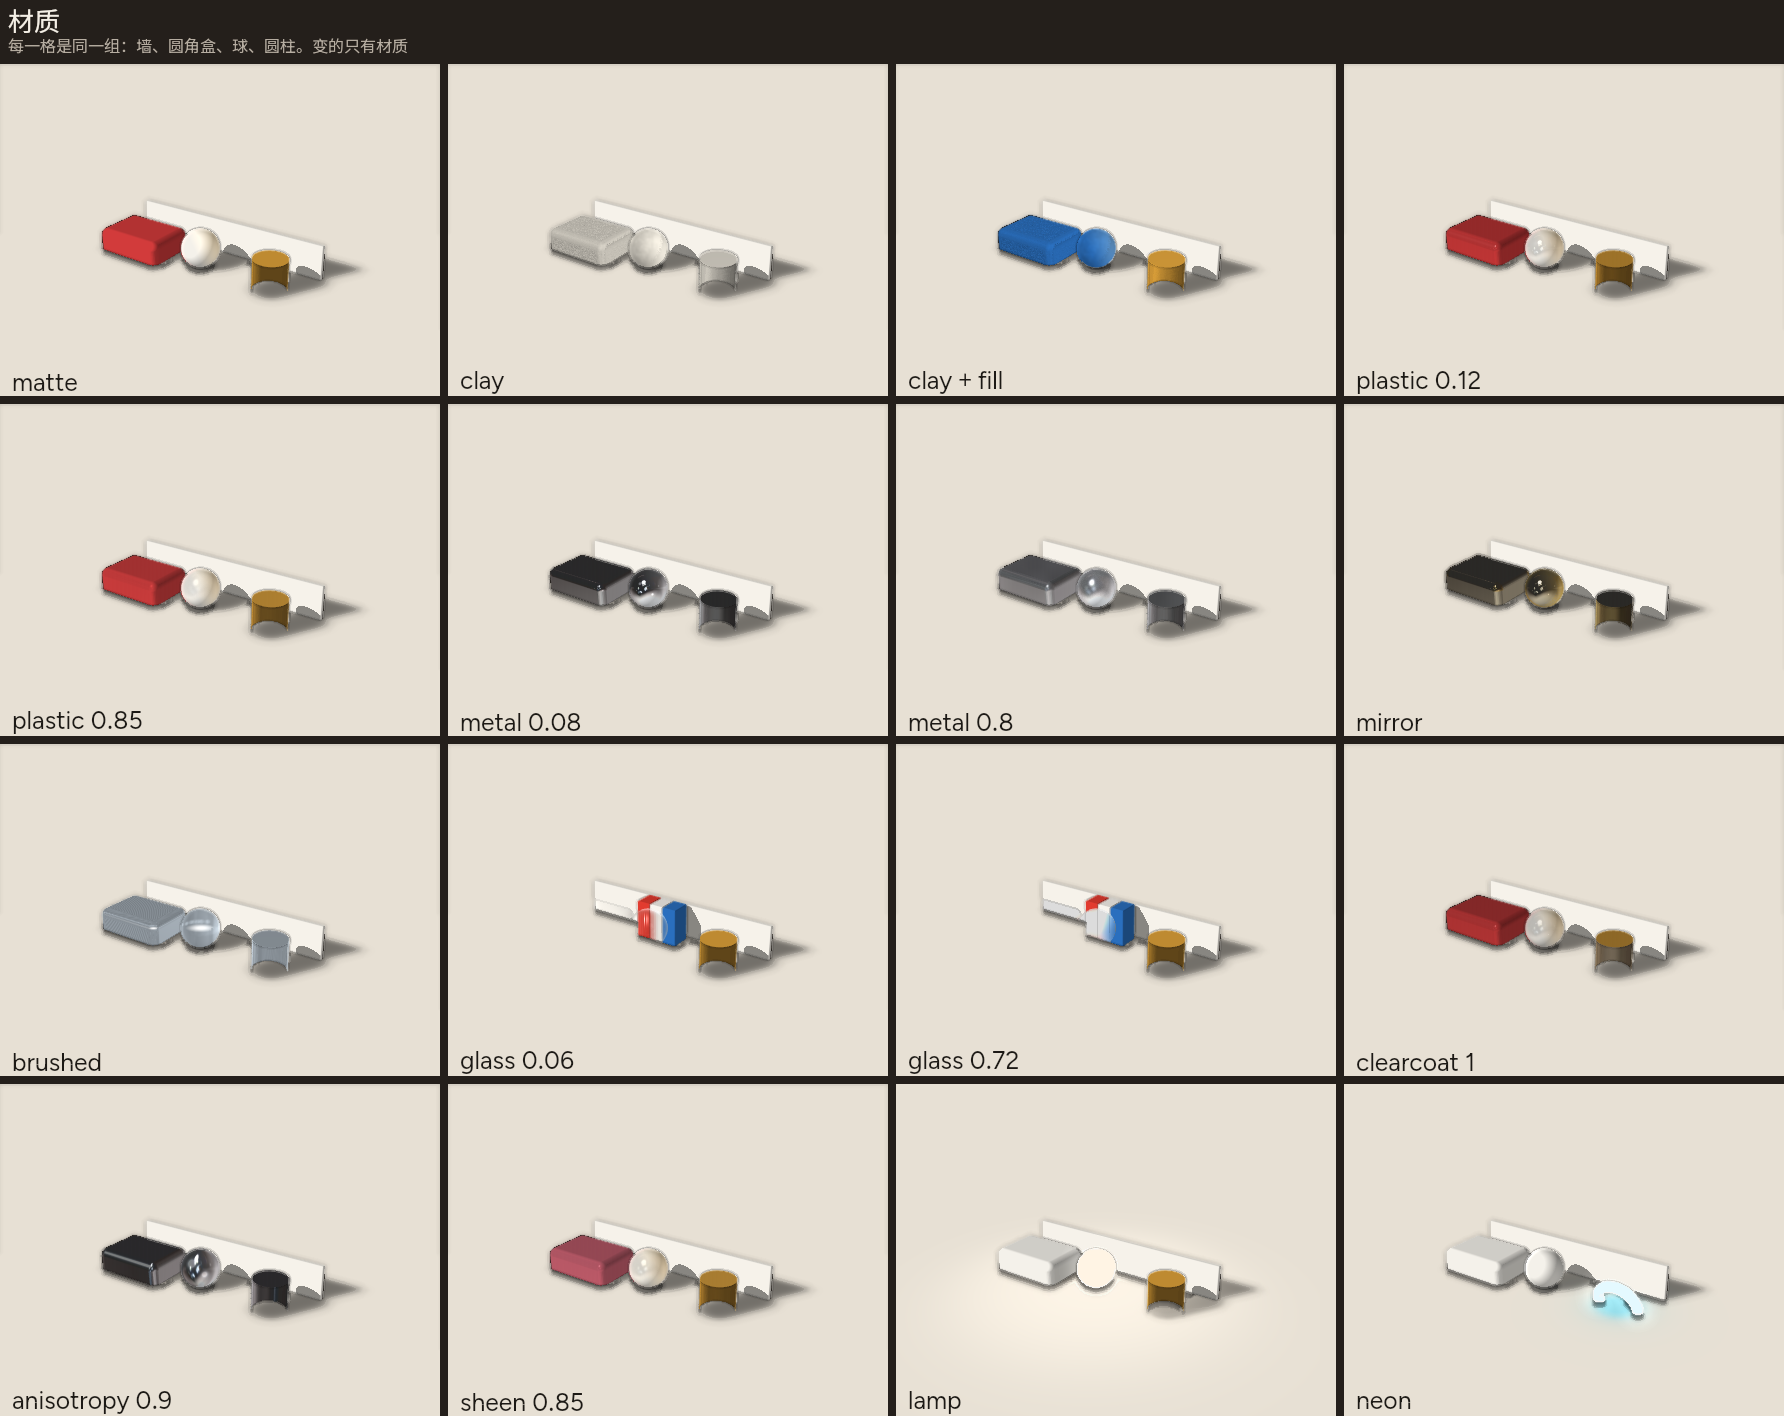
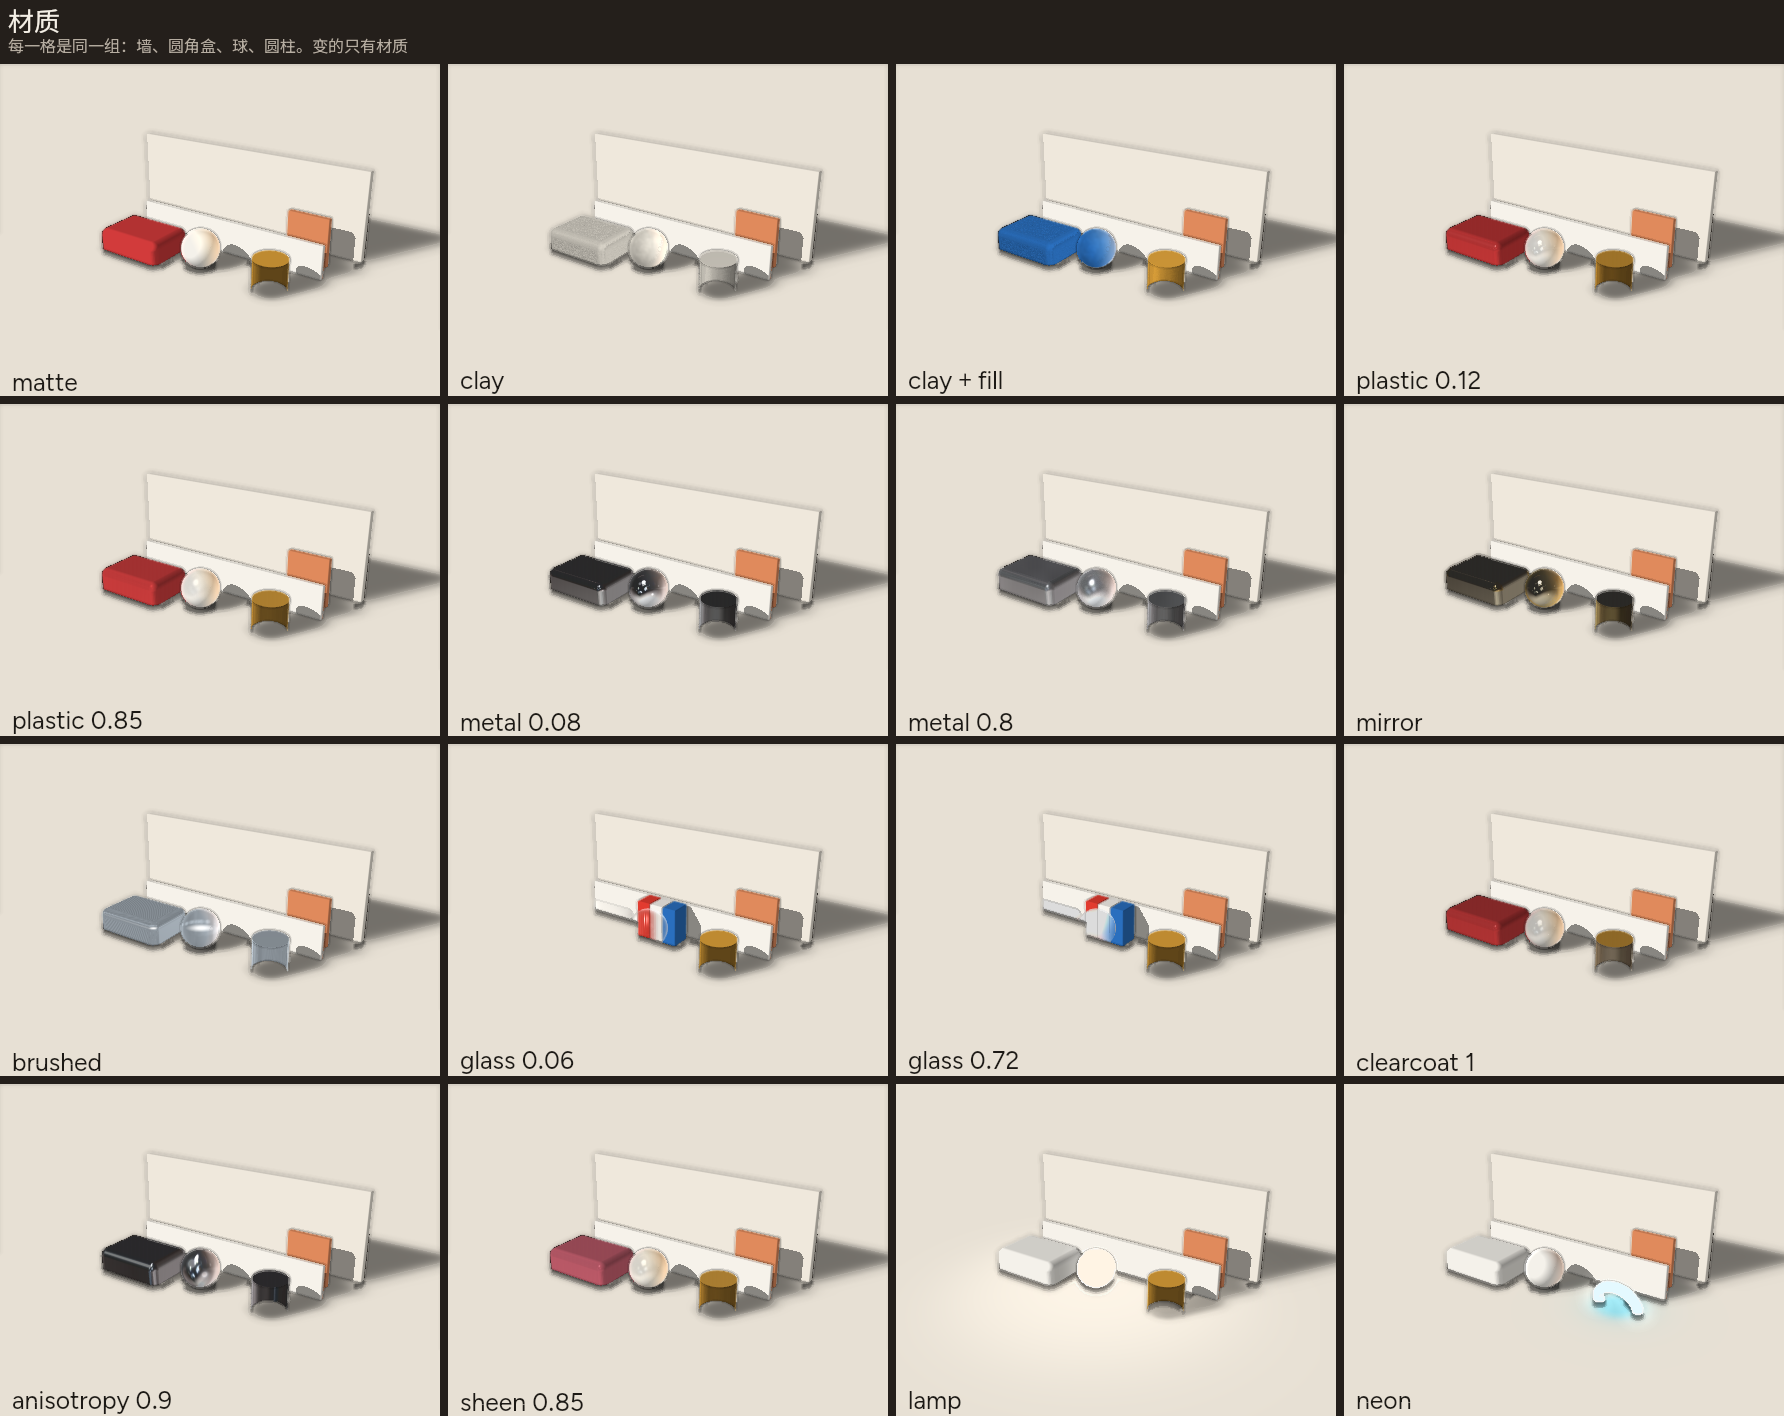
QUALITY-6 §9.2: materials cluster warm backplane + accent.
Gives metal 0.08 / mirror / anisotropy cream and coral to reflect so
cells are not near-black on the dark page. Pair/aspect gates green.

diff --git a/scripts/gallery-3d.ts b/scripts/gallery-3d.ts
@@ -184,9 +184,13 @@ function cluster(finish: Finish): string {
   const side = finish.neon
     ? `<torus id="side" cx="330" cy="78" r="32" tube="8" z="14" ${finish.side} rotateX="70" />`
     : `<circle id="side" cx="330" cy="78" r="26" depth="100" ${finish.side} />`
+  // Warm back + accent card so metal/mirror/aniso reflect cream and coral
+  // instead of the dark page (QUALITY-6 §9.2 near-black dual-blind).
   return `<layer width="440" height="300" camera="fov 32, orbit 34 22, distance 860, at 220 160 0">
     <ground id="ground" y="220" rotateX="90" fill="#e7e0d4" shadow-blur="26" shadow-opacity="0.5" />
     <layer x="28" y="220" width="400" height="190" origin="200 0" rotateX="90" preserve-3d>
+      <rect id="back" x="-30" y="-90" width="440" height="14" depth="300" fill="#efe8dc" />
+      <rect id="accent" x="300" y="-40" width="70" height="10" depth="160" fill="#e08a5c" />
       <rect id="plinth" x="40" y="4" width="340" height="8" depth="110" fill="#f6f2ea" />
       <rect id="box" x="28" y="30" width="120" height="86" depth="72" rx="12" ${finish.box} />
       ${stripes}
